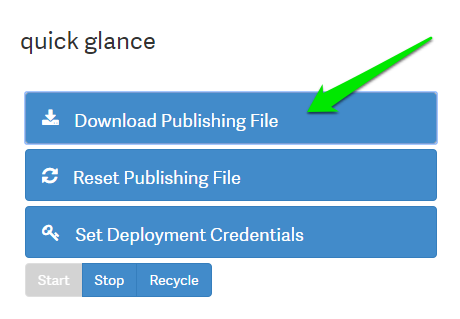
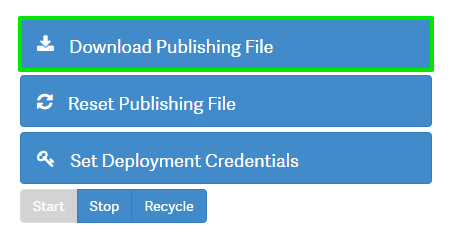
WebMatrix 3 publishing
fdsfs

diff --git a/publish-via-webmatrix-3.md b/publish-via-webmatrix-3.md
@@ -1,0 +1,44 @@
+#Publishing Your Site via WebMatrix 3
+
+
+###Download your publishing file
+
+ - [Log in][login-link]  to your account
+
+ - Select your CloudSite
+ 	
+	![select cloudsite][select-cloudsite]
+
+ - Download publishing pile
+
+	![downloading publishing file][download-publishing-file]
+
+###Import Publish File into WebMatrix 3
+
+ - Remote file menu
+
+	![webmatrix 3 menu][menu-webmatrix]
+
+ - Click publish
+ 
+	![webmatrix import publish][webmatrix-import-publish-file]
+
+ - Import publish profile
+
+ - Validate connection
+
+ - Test publish compatibility
+
+ - publish preview
+
+ - Visit test URL
+
+
+[Login-Link]:https://my.gearhost.com/Account/Login
+
+[menu-cloudsites]: https://raw.githubusercontent.com/GearHost/docs/master/Images/menu-cloudsites.png
+[select-cloudsite]: https://raw.githubusercontent.com/GearHost/docs/master/Images/select-cloudsite.png
+[download-publishing-file]: https://raw.githubusercontent.com/GearHost/docs/master/Images/download-publishing-file.png
+
+[menu-webmatrix]: https://raw.githubusercontent.com/GearHost/docs/master/Images/webmatrix-3-file-menu.png
+[webmatrix-import-publish-file]: https://raw.githubusercontent.com/GearHost/docs/master/Images/webmatrix-import-publish-file.png
